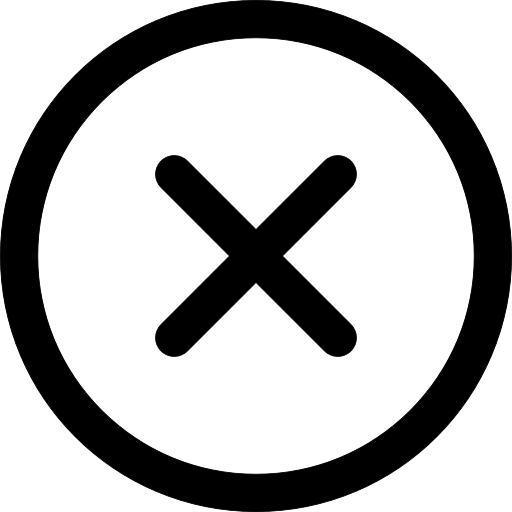
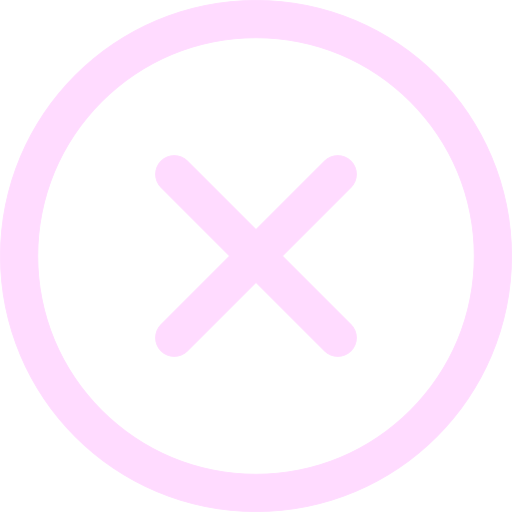
fix: chamge color cross_lavender.png

Changed region(s): [[0.0, 0.0, 1.0, 1.0], [0.2812, 0.2812, 0.7188, 0.7188]]

diff --git a/frontend/modal_contents/tournament_round_program/tournament_round_program.html b/frontend/modal_contents/tournament_round_program/tournament_round_program.html
@@ -7,7 +7,7 @@
 					Tournament round matches
 				</h1>
 				<button type="button" tabindex="1" class="btn trp-btn-close" onclick="close_modal('modal-tournament-round-program', undefined, false)">
-					<img class="trp-btn-close-icon" src="img/cross.png" alt="Return">
+					<img class="trp-btn-close-icon" src="img/cross_lavender.png" alt="Return">
 				</button>
 			</div>
 			<!-- Modal body -->

diff --git a/frontend/modal_contents/tournament_top1/tournament_top1.html b/frontend/modal_contents/tournament_top1/tournament_top1.html
@@ -7,7 +7,7 @@
 					Tournament Winner
 				</h1>
 				<button type="button" tabindex="1" class="btn tt1-btn-close" onclick="close_modal('modal-tournament-top1', undefined, false)">
-					<img class="tt1-btn-close-icon" src="img/cross.png" alt="Return">
+					<img class="tt1-btn-close-icon" src="img/cross_lavender.png" alt="Return">
 				</button>
 			</div>
 			<!-- Modal body -->
